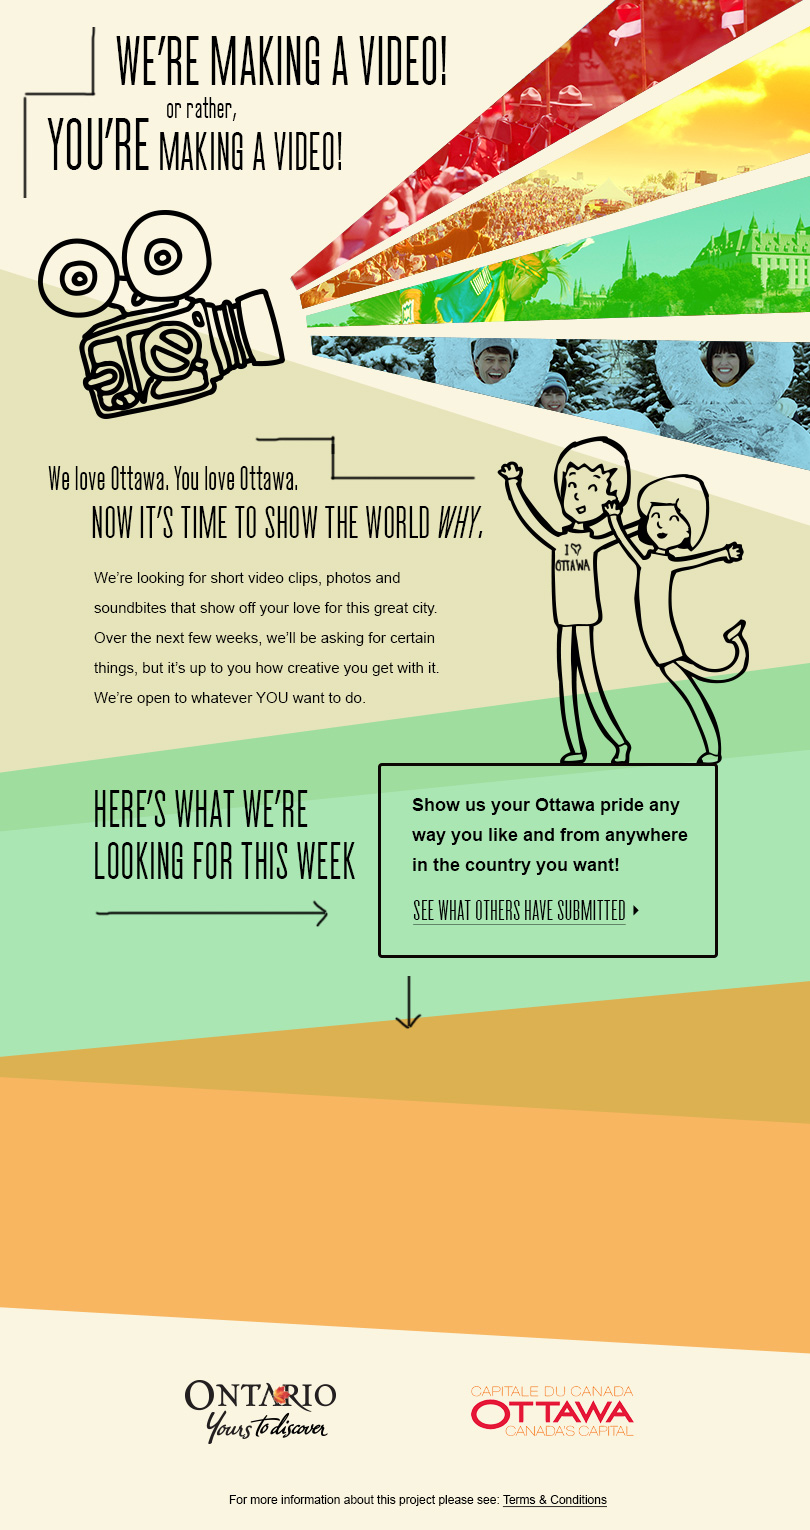
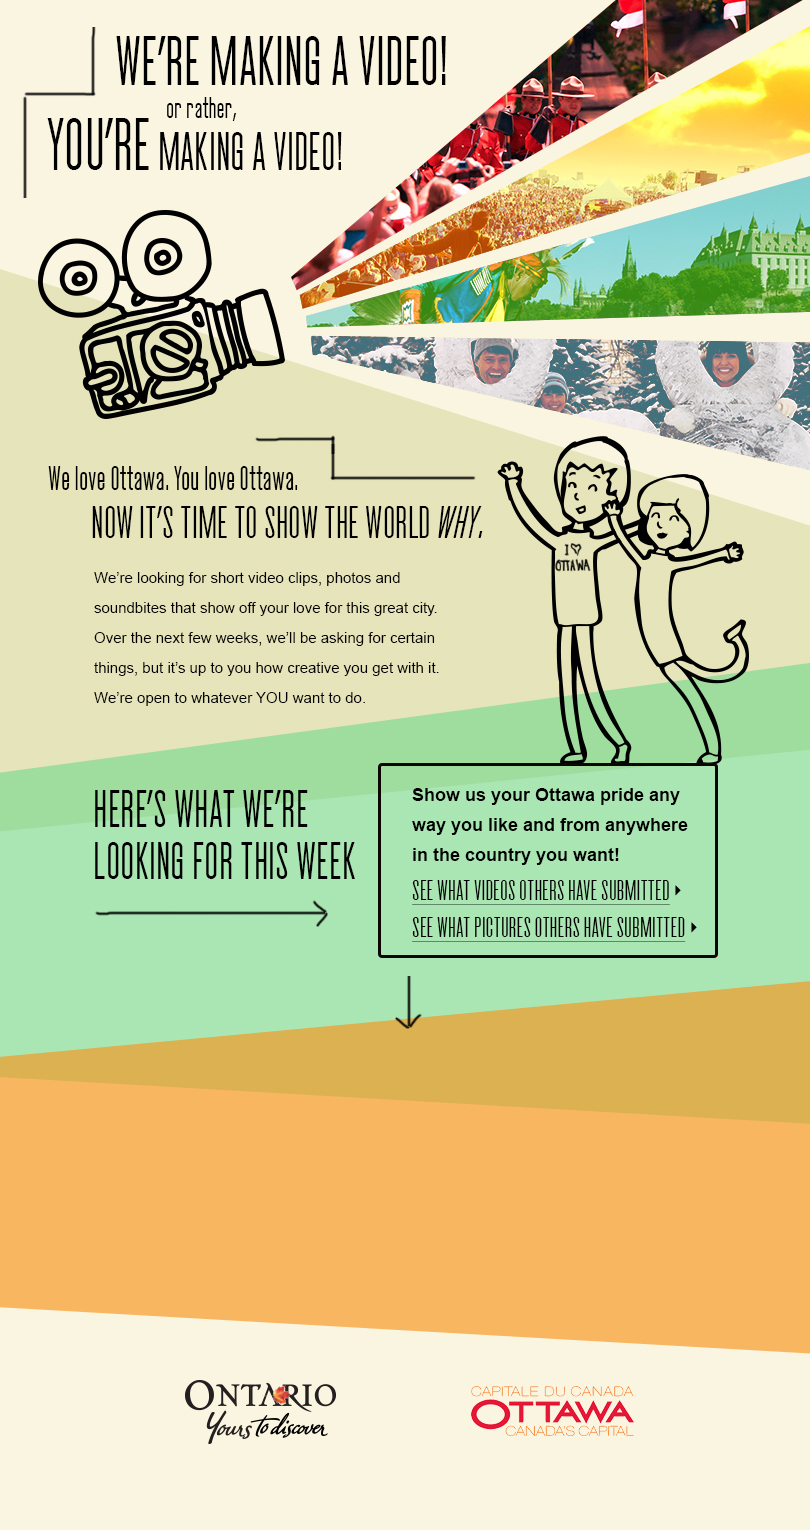
finished video player. split front page links to 2 links. made fancybox occur on 2 different sets of links, one for video, one for pictures

diff --git a/www/css/style.css b/www/css/style.css
@@ -29,6 +29,8 @@ a:active { outline: none; }
 
 #one .file-type-choice { height: 240px; overflow: hidden; bottom: 250px; left: 17%; }
 #one .submit-header { display: block; width: 391px; height: 72px; background: url(../img/submit-header.png) no-repeat 0 -72px; clear: both; margin: 0 auto 5px auto; }
+.video-submitted { position: absolute; display: block; border: 0px solid #000; width: 270px; height: 30px; top: 875px; right: 128px; }
+.pic-submitted { position: absolute; display: block; border: 0px solid #000; width: 290px; height: 30px; top: 910px; right: 108px; text-indent: -9999pt; }
 
 #photo .submit-header { display: block; width: 391px; height: 72px; background: url(../img/submit-header.png) no-repeat 0 0px; clear: both; margin: 0 auto 5px auto; }
 #video .submit-header { display: block; width: 391px; height: 72px; background: url(../img/submit-header.png) no-repeat 0 -72px; clear: both; margin: 0 auto 5px auto; }
@@ -49,6 +51,9 @@ a:active { outline: none; }
 .page .form input { border: 1px solid #000; border-radius: 3px; background: #e6e4ba; padding: 3px; }
 .page .form ul li span { position: absolute; display: block; right: left: 0px; width: 300px; background: red; color: #fff; z-index: 1; padding: 3px; border-radius: 5px; }
 .page .form ul li span label { width: 100%; }
+
+label { line-height: 15px; }
+p { line-height: 15px; }
 
 .page .form-confirm { position: absolute; width: 300px; top: 300px; left: 440px; }
 .page .form-confirm p { margin: 0px 0px 10px 0; }
@@ -91,8 +96,7 @@ a:active { outline: none; }
 .terms { width: 120px; height: 20px; position: absolute; border: 0px solid #000; text-indent: -9999pt; }
 #rules { display: none; }
 
-.fancy { text-indent: -9999pt; }
-.submitted { position: absolute; display: block; border: 0px solid #000; width: 230px; height: 40px; top: 890px; right: 170px; }
+.fancy, .fancy-video { text-indent: -9999pt; }
 .hidden { display: none; }
 
 #loading { display: none; width: 170px; height: 227px; position: absolute; top: 470px; right: 310px; background: url(../img/loading.gif) no-repeat; }

diff --git a/www/js/ottawa.js b/www/js/ottawa.js
@@ -8,11 +8,6 @@
 /*
 /*///////////////*/
 
-// SETUP VIDEO PLAYER
-jwplayer('demovideo').setup({
-	flashplayer: "./js/player.swf",
-});
-
 $(function() { // ENCAPSULATE EVERYTHING IN JQUERY, EVEN FUNCTIONS
 
 /*///////////////////////////////////////////////
@@ -41,9 +36,6 @@ $(function() { // ENCAPSULATE EVERYTHING IN JQUERY, EVEN FUNCTIONS
 	$('.music-link').click(function() {
 		callPage('music');
 	});
-
-// SEE WHAT OTHERS HAVE SUBMITTED
-	$('.fancy').fancybox();
 
 // FUNCTION TO CALL PAGES
 	function callPage(pageId) {

diff --git a/www/pages.php b/www/pages.php
@@ -8,7 +8,8 @@
 	<a href="#rules" class="terms">Terms & Conditions</a>
 	<a href="#" id="ontario-link" target="_blank">Ontario</a>
 	<a href="#" id="ottawa-link" target="_blank">Ottawa</a>
-	<a class="fancy submitted" href="#demovideo" rel="group">See what others have submitted</a>
+	<a class="fancy-video video-submitted" href="#demovideo">See what others have submitted</a>
+	<a class="fancy-pic pic-submitted" href="https://ottawa.s3.amazonaws.com/haveone%40test.com-moretests.png" rel="group">See what others have submitted</a>
 </div>
 
 <div id="photo" class="page">
@@ -47,8 +48,8 @@
 				<input type="text" name="postal_code"/>
 			</li>
 			<li class="news-li">
-				<label for="news">Yes, I am interested in hearing from Ottawa Tourism</label> 
-				<input type="checkbox" name="news" CHECKED/>
+				<label for="news">Yes, I am interested in hearing from Ottawa Tourism and Ontario Tourism</label> 
+				<input type="checkbox" name="news"/>
 			</li>
 		</ul> 
 	</div>
@@ -116,7 +117,7 @@
 				<input type="text" name="postal_code"/>
 			</li>
 			<li class="news-li">
-				<label for="news">Yes, I am interested in hearing from Ottawa Tourism</label> 
+				<label for="news">Yes, I am interested in hearing from Ottawa Tourism and Ontario Tourism</label> 
 				<input type="checkbox" name="news"/>
 			</li>
 		</ul> 
@@ -180,7 +181,7 @@
 				<input type="text" name="postal_code"/>
 			</li>
 			<li class="news-li">
-				<label for="news">Yes, I am interested in hearing from Ottawa Tourism</label> 
+				<label for="news">Yes, I am interested in hearing from Ottawa Tourism and Ontario Tourism</label> 
 				<input type="checkbox" name="news"/>
 			</li>
 		</ul> 
@@ -220,11 +221,37 @@
 <div id="loading"></div>
 
 <div class="hidden">
-<a class="fancy" href="https://ottawa.s3.amazonaws.com/haveone%40test.com-moretests.png" rel="group">Hidden Link</a>
-<a class="fancy" href="https://ottawa.s3.amazonaws.com/haveone%40test.com-moretests.png" rel="group">Hidden Link</a>
-<a class="fancy" href="https://ottawa.s3.amazonaws.com/haveone%40test.com-moretests.png" rel="group">Hidden Link</a>
-<a class="fancy" href="https://ottawa.s3.amazonaws.com/haveone%40test.com-moretests.png" rel="group">Hidden Link</a>
-<a class="fancy" href="https://ottawa.s3.amazonaws.com/haveone%40test.com-moretests.png" rel="group">Hidden Link</a>
+	<a class="fancy-pic" href="https://ottawa.s3.amazonaws.com/haveone%40test.com-moretests.png" rel="group">Hidden Link</a>
+	<a class="fancy-pic" href="https://ottawa.s3.amazonaws.com/haveone%40test.com-moretests.png" rel="group">Hidden Link</a>
+	<a class="fancy-pic" href="https://ottawa.s3.amazonaws.com/haveone%40test.com-moretests.png" rel="group">Hidden Link</a>
+	<a class="fancy-pic" href="https://ottawa.s3.amazonaws.com/haveone%40test.com-moretests.png" rel="group">Hidden Link</a>
+	<a class="fancy-pic" href="https://ottawa.s3.amazonaws.com/haveone%40test.com-moretests.png" rel="group">Hidden Link</a>
 </div>
 
-<div id="demovideo"></div>
+
+<script type="text/javascript">
+
+// SETUP VIDEO PLAYER
+$(function() {
+
+	$('.fancy-pic').fancybox();
+
+	$('.fancy-video').fancybox({
+		'content':'<div id="mediaspace"></div>',
+		autoSize: false,
+		height: 300,
+		fitToView: true,
+		afterShow: function() {
+			if(this.href == '#demovideo') {
+				jwplayer('mediaspace').setup({
+					flashplayer: "js/player.swf",
+					file: "uploads/videos/demo.mp4",
+					width: '100%'
+				});
+			}
+		}
+	});
+
+});
+
+</script>

diff --git a/www/home.php b/www/home.php
@@ -48,6 +48,7 @@ $date = date('U');
 	<script type="text/javascript" src="js/jquery-validate.js"></script>
 	<script type="text/javascript" src="js/jquery-fancybox.js"></script>
 	<script type="text/javascript" src="js/jquery-scrollTo.js"></script>
+	<script type="text/javascript" src="js/jwplayer.js"></script>
 	<script type="text/javascript" src="js/ottawa.js?date=<?php $date; ?>"></script>
 
 </head>
